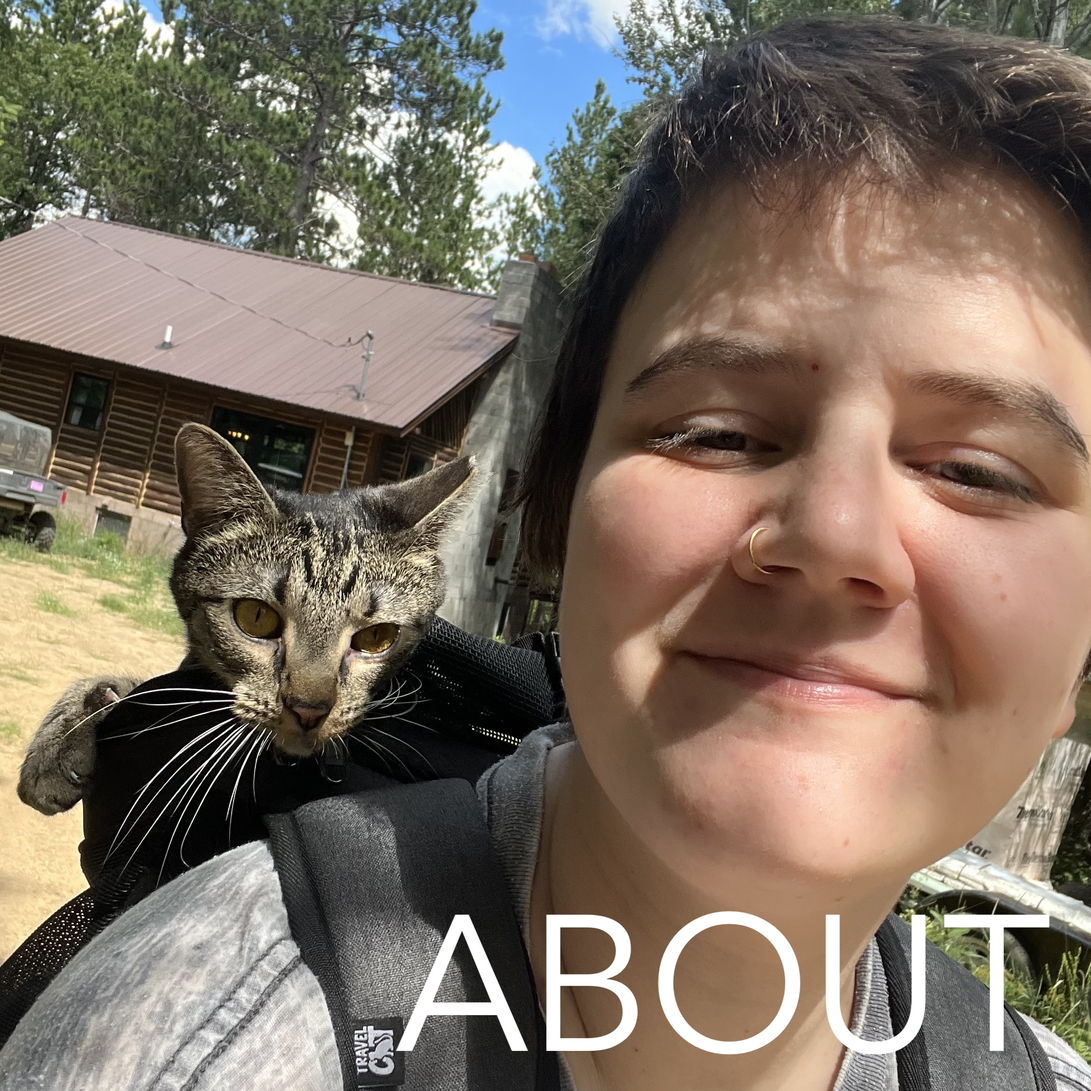
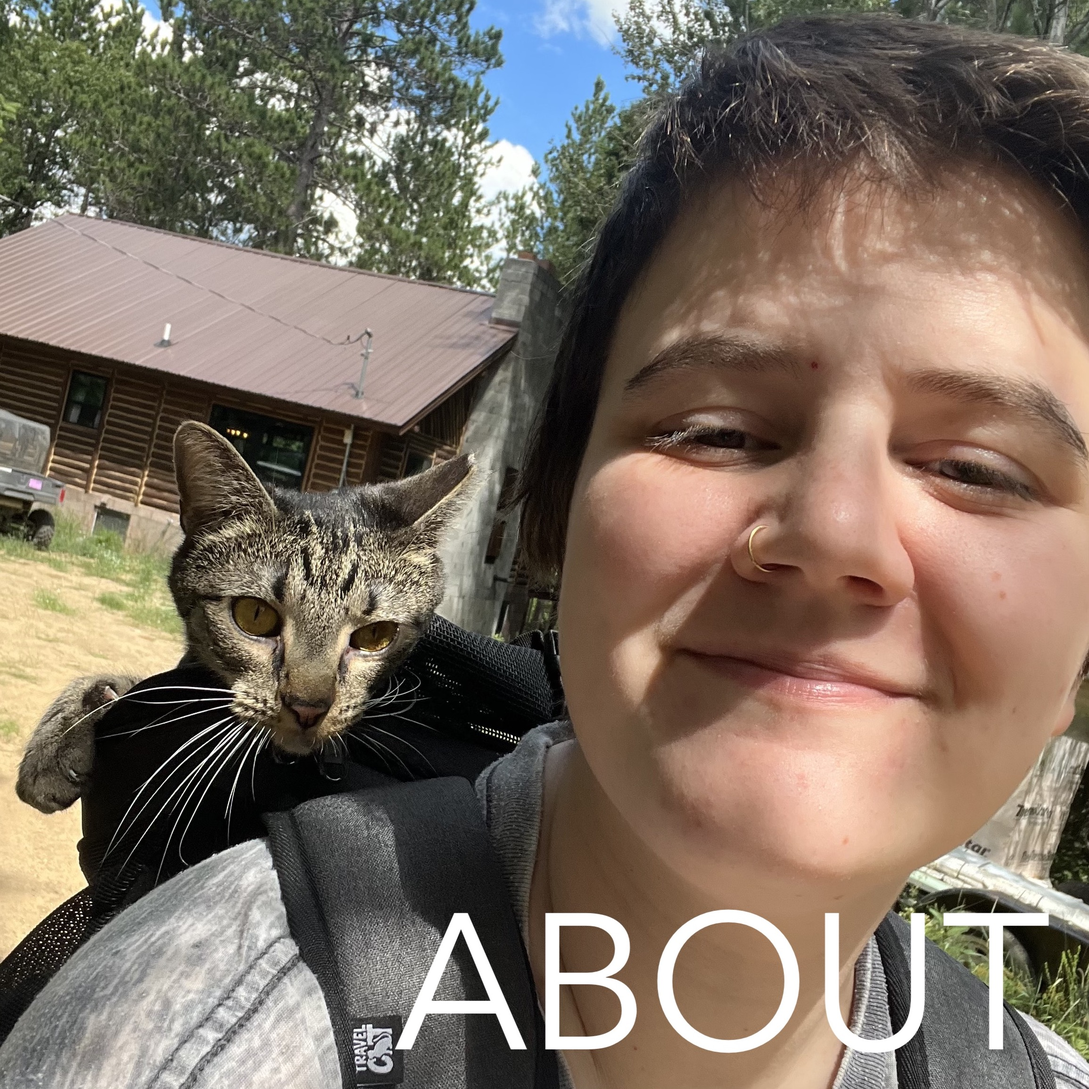
remove image border

diff --git a/wall.css b/wall.css
@@ -1,6 +1,6 @@
 
 a img {
-    border: 5px solid #555
+    border: solid 2px white;
 }
 
 /* fotogrid stuff */

diff --git a/index.md b/index.md
@@ -14,34 +14,34 @@ keywords: Wall
     <div class="column">
       <div class="tile">
         <a href="about.html">
-          <img border="0" src="publpics/about.jpeg" alt="picture of me carrying my cat in his backpack carrier" title="huh" style="width:100%"/>
+          <img src="publpics/about.jpeg" alt="picture of me carrying my cat in his backpack carrier" title="huh" style="width:100%"/>
         </a>
       </div>
       <div class="tile">
         <a href="gender.html">
-          <img border="0" src="publpics/gender.jpeg" alt="protest pic" title="where" style="width:100%"/>
+          <img src="publpics/gender.jpeg" alt="protest pic" title="where" style="width:100%"/>
         </a>
       </div>
       <div class="tile">
         <a href="moose.html">
-          <img border="0" src="publpics/moose.jpeg" alt="moose in hanky" title="can i find this" style="width:100%"/>
+          <img src="publpics/moose.jpeg" alt="moose in hanky" title="can i find this" style="width:100%"/>
         </a>
       </div>
     </div>
     <div class="column">
       <div class="tile">
         <a href="research.html">
-          <img border="0" src="publpics/research.jpeg" alt="roots pic" title="huh 2" style="width:100%"/>
+          <img src="publpics/research.jpeg" alt="roots pic" title="huh 2" style="width:100%"/>
         </a>
       </div>
       <div class="tile">
         <a href="sewing.html">
-          <img border="0" src="publpics/sewing.jpeg" alt="sewing machine" title="idk" style="width:100%"/>
+          <img src="publpics/sewing.jpeg" alt="sewing machine" title="idk" style="width:100%"/>
         </a>
       </div>
       <div class="tile">
         <a href="misc.html">
-          <img border="0" src="publpics/misc.jpeg" alt="flowers" title="call me beep me" style="width:100%"/>
+          <img src="publpics/misc.jpeg" alt="flowers" title="call me beep me" style="width:100%"/>
         </a>
       </div>
     </div>
